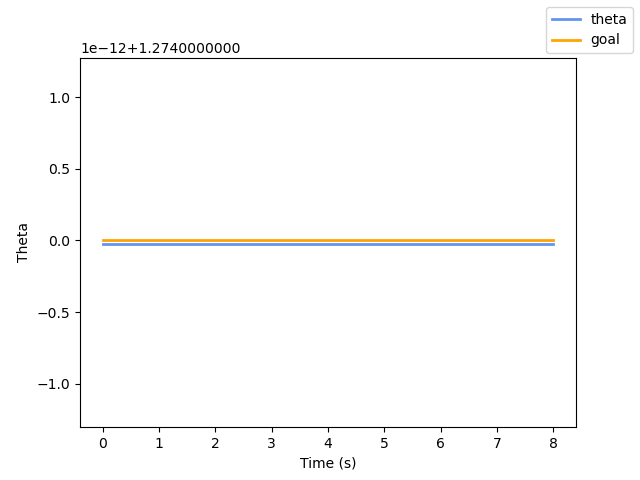
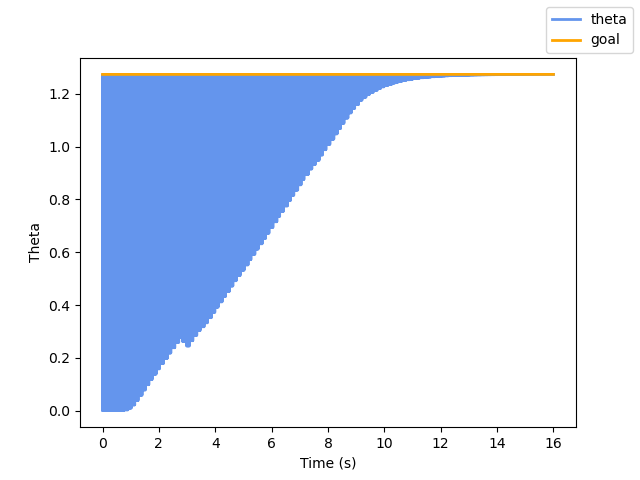
lab from hell

diff --git a/autonomy_repo/scripts/heading_controller.py b/autonomy_repo/scripts/heading_controller.py
@@ -7,17 +7,24 @@ from asl_tb3_lib.math_utils import wrap_angle
 from asl_tb3_msgs.msg import TurtleBotControl, TurtleBotState
 
 class HeadingController(BaseHeadingController):
-    def __init__(self):
-        super().__init__()
+
+    def __init__(self, node_name = "heading_controller"):
+        super().__init__(node_name)
         # Proportional gain
-        self.kp = 2.0
-        
+        self.declare_parameter("kp", 2.0)
+
+
+    @property
+    def get_kp(self) -> float:
+        return(self.get_parameter("kp")).value
+    
+
     def compute_control_with_goal(
             self,
             current_state: TurtleBotState,
             desired_state: TurtleBotState) -> TurtleBotControl:
         proportional_error = desired_state.theta - current_state.theta
-        desired_omega = self.kp * wrap_angle(proportional_error)
+        desired_omega = self.get_kp * wrap_angle(proportional_error)
         message = TurtleBotControl()
         message.omega = desired_omega
         return message

diff --git a/autonomy_repo/scripts/p3_plot.py b/autonomy_repo/scripts/p3_plot.py
@@ -12,7 +12,7 @@ from asl_tb3_lib.math_utils import wrap_angle
 
 
 class PlottingNode(Node):
-    def __init__(self, des_angle=1.274, total_msg_cnt=800):
+    def __init__(self, des_angle=1.274, total_msg_cnt=1600):
         super().__init__("plot_node")
         
         self.goal = des_angle
@@ -60,7 +60,7 @@ class PlottingNode(Node):
         ax.set_xlabel("Time (s)")
         ax.set_ylabel("Theta")
         fig.legend()
-        filename = Path("src/autonomy_repo/plots/p3_output.png")
+        filename = Path("src/autonomy_repo/autonomy_repo/plots/p3_output.png")
         try:
             fig.savefig(filename)  # save the figure to file
         except OSError as e:
